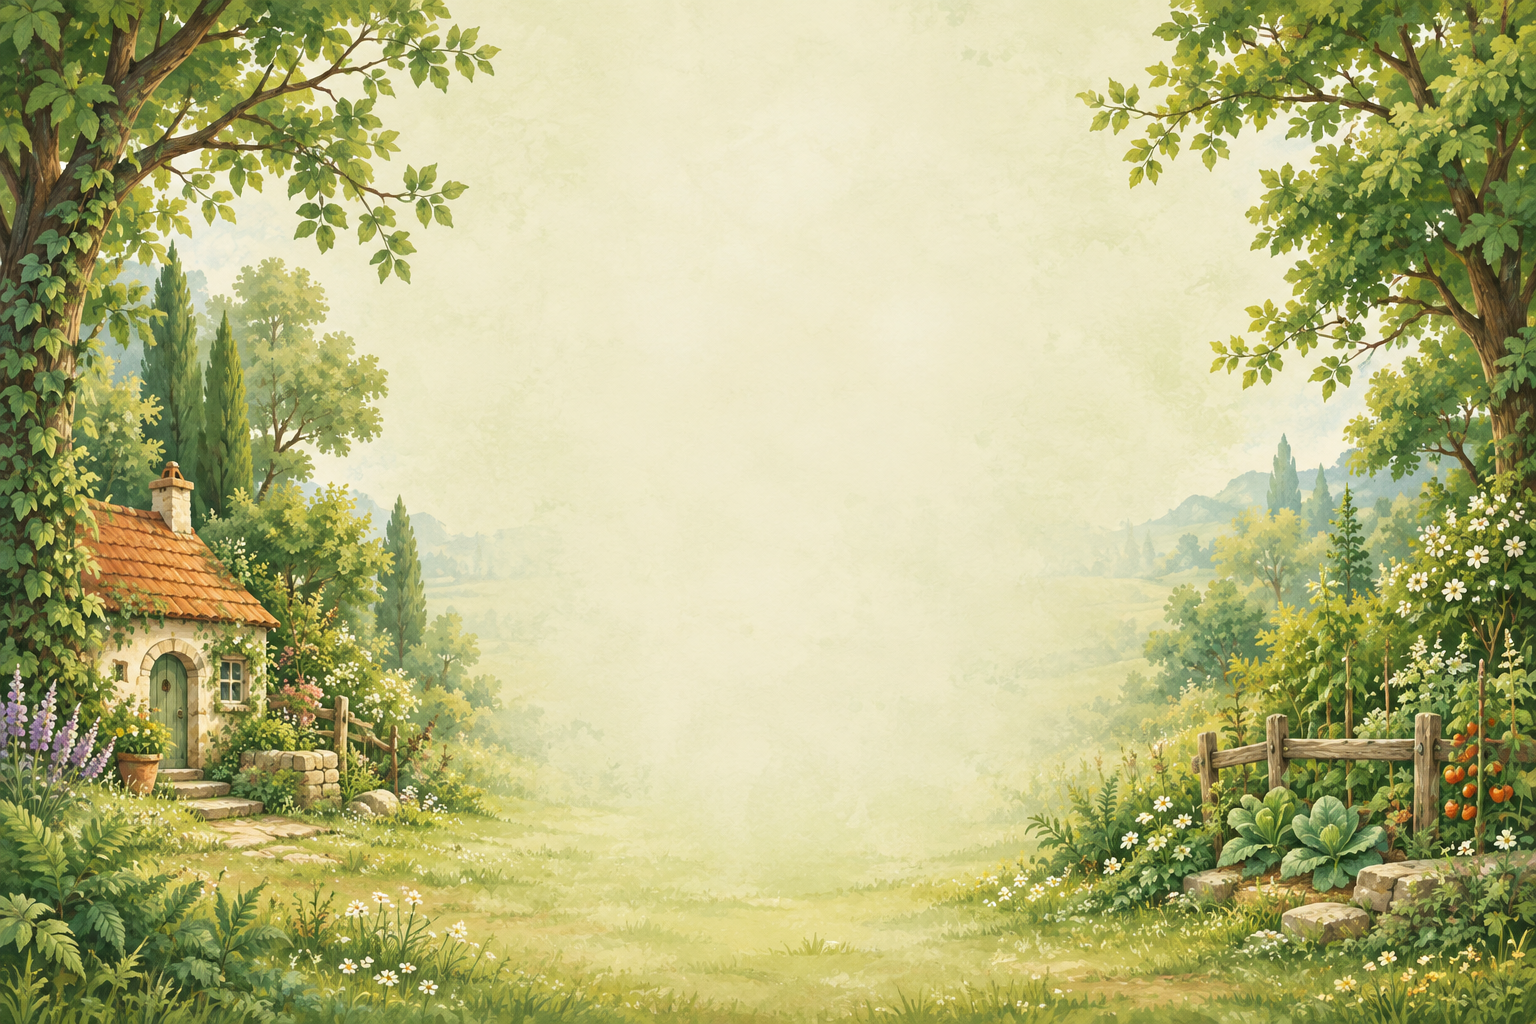
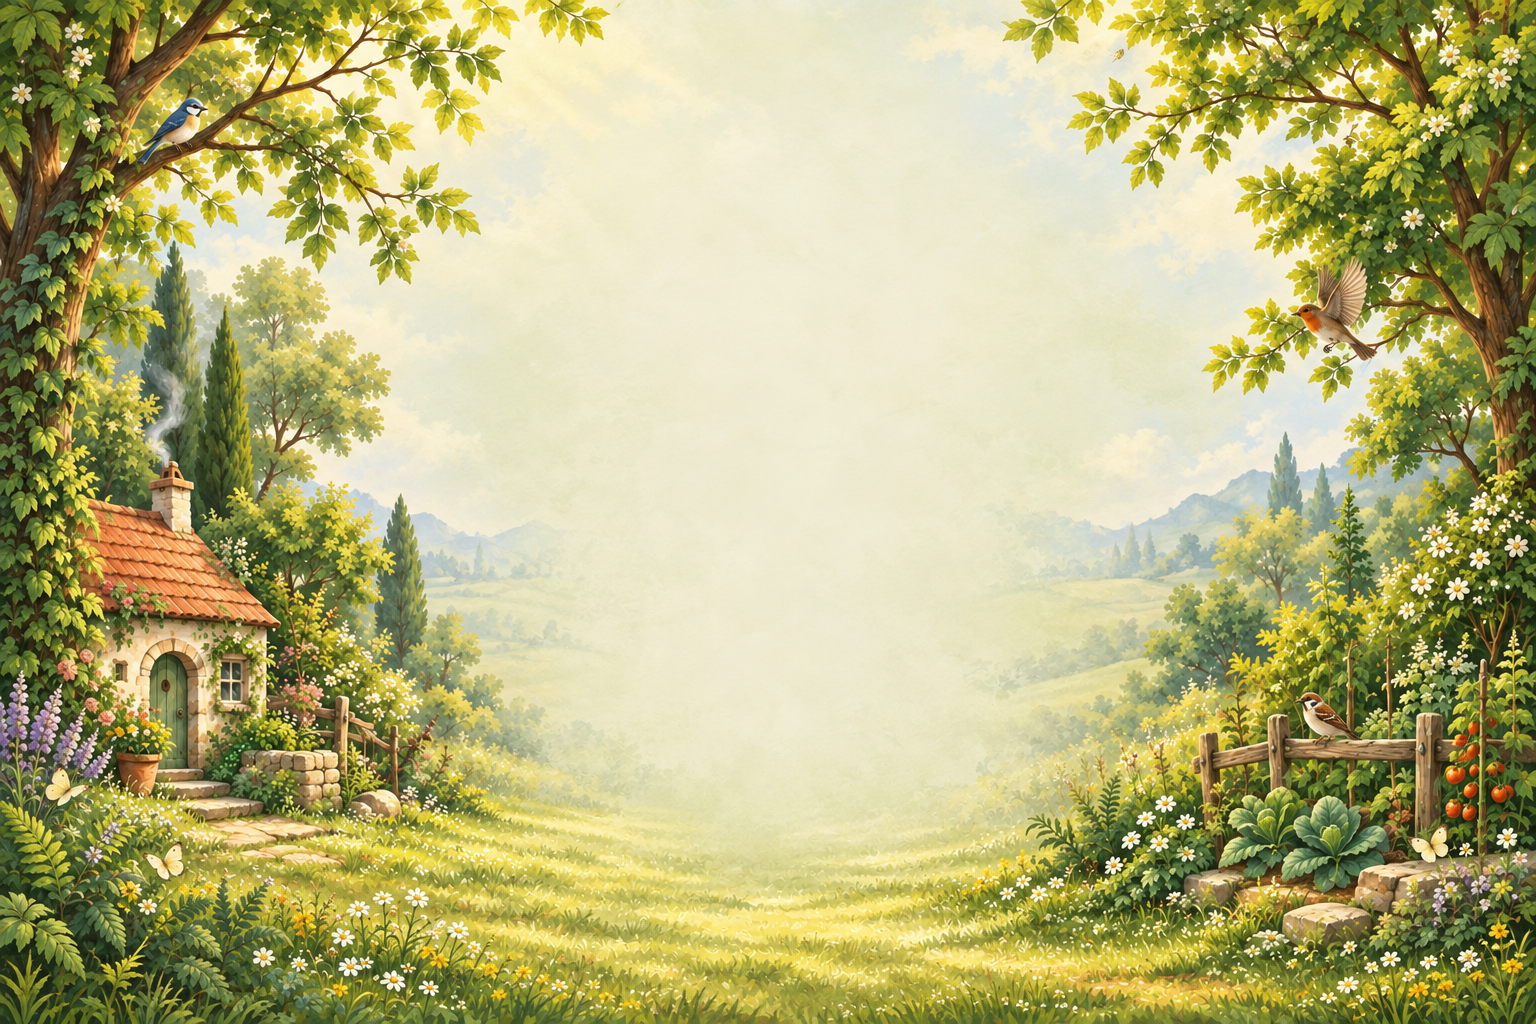
Enliven garden and starry backgrounds with natural details and ambient motion

diff --git a/site/reader.css b/site/reader.css
@@ -223,12 +223,44 @@ h1 { margin: 0; font-size: 36px; font-weight: 700; letter-spacing: -.02em; }
 .home-garden { position: fixed; inset: 0; z-index: 0; overflow: hidden; pointer-events: none; user-select: none; }
 .home-garden img { display: block; width: 100%; height: 100%; object-fit: cover; object-position: center bottom; }
 .home-garden .home-background-night { display: none; }
+.home-atmosphere { position: absolute; inset: 0; overflow: hidden; }
+.home-atmosphere-night { display: none; }
+.home-sky-gutter { position: absolute; top: 0; bottom: 0; width: max(0px, calc((100% - 828px) / 2)); overflow: hidden; }
+.home-sky-left { left: 0; }
+.home-sky-right { right: 0; }
+.home-sky-gutter i { position: absolute; left: var(--x); top: var(--y); border-radius: 50%; opacity: 0; animation-duration: var(--duration); animation-delay: var(--delay); animation-iteration-count: infinite; animation-timing-function: ease-in-out; }
+.home-atmosphere-day i { width: 3px; height: 3px; background: #fff7c7; box-shadow: 0 0 7px 2px #fff3b078; animation-name: garden-mote; }
+.home-atmosphere-night i { width: 2px; height: 2px; background: #ecf4ff; box-shadow: 0 0 7px 2px #8bacfc66; animation-name: star-shimmer; }
+.home-meteor { position: absolute; left: 30%; top: 29%; width: 65px; height: 1px; border-radius: 50%; background: linear-gradient(90deg, transparent, #bddeff); opacity: 0; transform: rotate(38deg); transform-origin: right center; animation: meteor-pass 23s linear infinite 5s; }
+.home-sky-right .home-meteor { left: 23%; top: 57%; animation-duration: 31s; animation-delay: 13s; }
+@keyframes garden-mote {
+  0%, 100% { opacity: 0; transform: translate3d(0, 14px, 0); }
+  25% { opacity: .55; }
+  65% { opacity: .4; }
+  90% { opacity: 0; transform: translate3d(16px, -38px, 0); }
+}
+@keyframes star-shimmer {
+  0%, 100% { opacity: .12; transform: scale(.7); }
+  48% { opacity: .85; transform: scale(1.2); }
+  72% { opacity: .3; }
+}
+@keyframes meteor-pass {
+  0%, 92%, 100% { opacity: 0; transform: translate3d(0, 0, 0) rotate(38deg); }
+  93% { opacity: .7; }
+  97% { opacity: 0; transform: translate3d(92px, 72px, 0) rotate(38deg); }
+}
+@media (prefers-reduced-motion: reduce) {
+  .home-atmosphere { display: none !important; }
+  .home-atmosphere * { animation: none !important; }
+}
 .garden-articles { position: relative; z-index: 1; }
 [data-color-mode="dark"] .home-page-shell { background: #080f24; }
 [data-color-mode="dark"] .home-page-shell .site-header { background: transparent; }
 [data-color-mode="dark"] .home-page-shell .logo > a { background: #b6c3ed; color: #111b38; }
 [data-color-mode="dark"] .home-garden .home-background-day { display: none; }
 [data-color-mode="dark"] .home-garden .home-background-night { display: block; }
+[data-color-mode="dark"] .home-atmosphere-day { display: none; }
+[data-color-mode="dark"] .home-atmosphere-night { display: block; }
 @media print { .home-garden { display: none; } }
 .home-page-shell .nav, .archive-page-shell .nav { max-width: 828px; }
 .home-page { max-width: 828px; padding-top: 38px; padding-bottom: 54px; }

diff --git a/site/illustrations/garden-background-prompt.md b/site/illustrations/garden-background-prompt.md
@@ -1,4 +1,19 @@
-# Selected homepage background
+# Refined day background
+
+Asset: [garden-background.png](garden-background.png).
+
+Edited from the existing garden background using the built-in ImageGen tool, at the user's request to make the scenery livelier. It fills the existing viewport without adding layout height. Gentle CSS accents stay in the gutters and are disabled when reduced motion is preferred.
+
+## Final edit prompt
+
+Use case: precise-object-edit.
+Asset type: full-bleed daytime garden background for a desktop blog.
+Input image 1 is the EDIT TARGET. Refine this exact selected garden illustration so it feels alive, sunny and inhabited by nature. Preserve its whole composition, existing cottage at lower left, fence/vegetable patch at lower right, dense leafy framing at both sides, warm ivory-sage quiet center, and hand-painted storybook quality. Keep 1536x1024 landscape.
+Add three small, beautifully painted songbirds naturally integrated into the scene: a blue-and-cream bird perched on a left branch near x=12%, y=40%; a little warm-brown bird in flight between leaves near x=88%, y=38%; another tiny bird resting on the right fence near x=86%, y=75%. They should read clearly as charming living birds, with anatomically plausible tiny bodies and wings, sized around 2 to 3 percent of image width, not giant character mascots and not flat pasted clipart. Add two or three delicate butterflies hovering above flowers at the lower outer edges, tiny ivory/yellow wings, not oversized. Give leaves fresh spring highlights and varied translucent greens, a little atmospheric sunlight through the upper branches, warm dappled light across grass, and subtle wisps of pale chimney smoke. Natural integration, cohesive pigment and brushwork, deeper foliage layers, comfortable pastoral ambience.
+Composition constraint is essential: ALL birds and butterflies stay within the OUTER 19 percent left/right gutters; focus visible life between y=30% and y=85% so it remains visible when the top is cropped. The central 58 percent stays very light and visually quiet for existing article cards; don't put new objects across it. Keep the house grounded at bottom left, never move it up. Do not turn this into a banner. No text, logos, people, UI, borders or watermark. Preserve original plants and overall palette; refine instead of redesign.
+
+## Previous generation record
+
 
 Asset: [garden-background.png](garden-background.png). Generated with the built-in imagegen tool and explicitly selected by the user. Displayed unchanged as a fixed page background, with no added layout space.
 

diff --git a/site/illustrations/starry-background-prompt.md b/site/illustrations/starry-background-prompt.md
@@ -1,4 +1,18 @@
-# Dark-mode starry background
+# Refined night background
+
+Asset: [starry-background.png](starry-background.png).
+
+Edited from the existing starry background using the built-in ImageGen tool, at the user's request to make the scenery livelier. It fills the existing viewport without adding layout height. Gentle CSS accents stay in the gutters and are disabled when reduced motion is preferred.
+
+## Final edit prompt
+
+Use case: precise-object-edit.
+Asset type: full-bleed starry-night background for a desktop blog.
+Input image 1 is the EDIT TARGET. Evolve this exact deep-blue night-sky composition into a more vivid, enchanting celestial landscape while retaining its dark quiet center and mountains confined to the lowest edge. 1536x1024 landscape. Keep the navy/indigo/violet identity and outer-edge Milky Way, but make the star clouds feel more naturally layered: soft wisps of turquoise and lavender within the outer nebula, a more realistic hierarchy of tiny distant stars and a few luminous nearby stars, delicate cloud haze at the horizon. Add a small, refined silver crescent moon in the upper-right outer gutter near x=89%, y=32%, about 3 percent of canvas width, with a restrained halo and subtle earthshine. Add one fine shooting star with a pale blue-white slender tapering trail in the left outer gutter around x=10%, y=43%, angled diagonally downward, not a thick laser streak. Near the far right horizon let a very faint teal auroral wisp dissolve into the violet haze; keep it atmospheric, low contrast and grounded in the landscape. Make the dark mountain layers at the bottom slightly more dimensional in cool moonlight, without raising them.
+Keep the central 58 percent dark, calm and sparse because it is behind blog article cards. Moon, shooting star, bright clouds and other accents must stay in the outer 19 percent side gutters. Preserve a believable night atmosphere, beautiful sophisticated celestial depth, no giant planets, no busy cosmic explosion, no oversaturated neon, no constellations connected with lines, no lens-flare crosses everywhere, no buildings, no text, no UI, no borders and no watermark. The result should feel alive and luminous but remain a restful reading background.
+
+## Previous generation record
+
 
 Generated with ImageGen for the homepage dark theme. The light theme retains the user-selected garden image. Both backgrounds fill the viewport without adding layout height.
 
